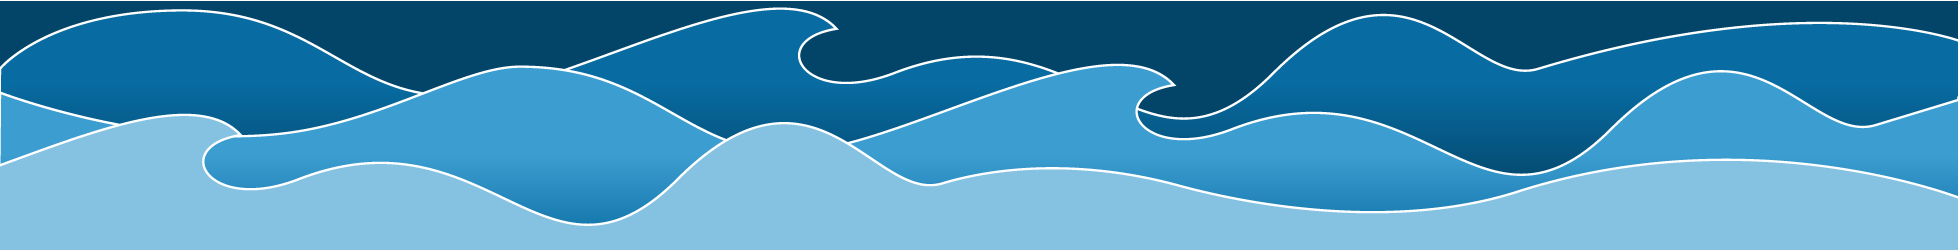
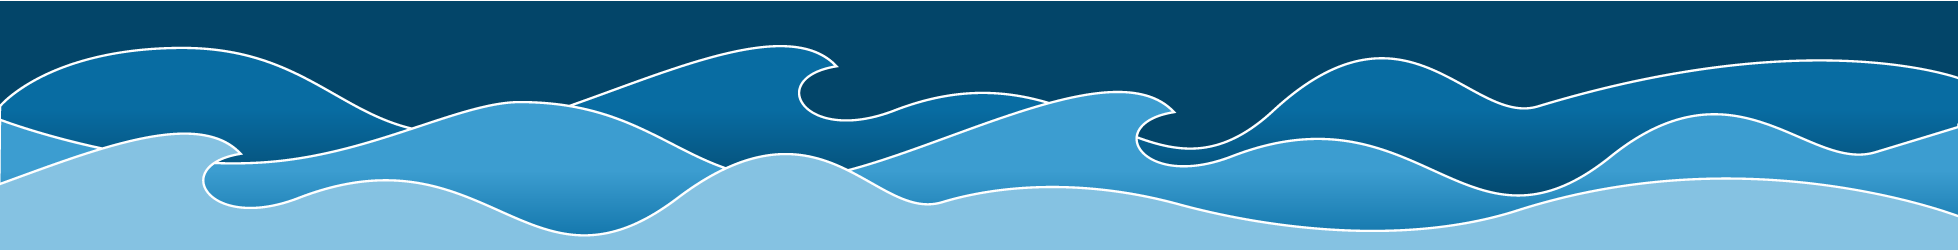
updated theme styles and image

diff --git a/src/unep/theme/index.html b/src/unep/theme/index.html
@@ -29,13 +29,13 @@
   <header class="header">
     <div class="w-container top-container">
       <div class="w-row cep-header">
-        <div class="w-col w-col-6 brand-wrapper">
+        <div class="w-col w-col-5 brand-wrapper">
           <a class="w-nav-brand w-clearfix brand" href="#">
             <img class="logo" src="images/cep%20unep%20logo.jpg" height="100" alt="53278764c90f21541e000008_cep%20unep%20logo.jpg">
             <h1 class="site-header">The Caribbean<br> Environment<br> Programme</h1>
           </a>
         </div>
-        <div class="w-col w-col-6 w-hidden-small w-hidden-tiny super-menu-wrapper">
+        <div class="w-col w-col-7 w-hidden-small w-hidden-tiny super-menu-wrapper">
           <nav class="w-nav-menu w-hidden-small w-hidden-tiny super-menu" role="navigation"><a class="w-nav-link w-hidden-small w-hidden-tiny super-menu-nav" href="#">Contact</a><a class="w-nav-link w-hidden-small w-hidden-tiny super-menu-nav" href="#">Vacancies &amp; Internships</a><a class="w-nav-link super-menu-nav" href="#">Staff Directory</a>
             <a
             class="w-nav-link super-menu-nav" href="#">UNEP</a>
@@ -187,13 +187,13 @@
       <h2>Resources</h2>
       <div class="w-row">
         <div class="w-col w-col-6">
-          <div class="w-clearfix resources-badge">
+          <div class="w-clearfix resources-badge clearing-houses">
             <h3 class="resources-heading">Clearing Houses and Databases</h3>
             <img class="resources-image" src="images/databases.jpg" width="200" alt="532a36eb4a6c2b56370000bb_databases.jpg">
           </div>
         </div>
         <div class="w-col w-col-6">
-          <div class="w-clearfix resources-badge">
+          <div class="w-clearfix resources-badge kids-corner">
             <img class="resources-image" src="images/kids%20corner.jpg" width="200" alt="532a358ba28d4058370000ce_kids%20corner.jpg">
             <h3 class="resources-heading">Kid’s Corner</h3>
           </div>

diff --git a/src/unep/theme/css/new-cep3.webflow.css b/src/unep/theme/css/new-cep3.webflow.css
@@ -127,15 +127,14 @@ p {
   right: 0px;
   width: auto;
   height: auto;
-  margin-top: 5px;
+  margin-top: 3px;
   margin-right: 20px;
   margin-bottom: 0px;
-  padding-top: 2px;
   padding-bottom: 3px;
   float: none;
   clear: none;
   border-radius: 5px;
-  background-color: rgba(0, 0, 0, 0.58);
+  /*background-color: rgba(0, 0, 0, 0.58);*/
   color: white;
   font-size: 14px;
   font-weight: 300;
@@ -760,6 +759,9 @@ p {
 }
 .brand-wrapper {
   background-color: white;
+  -webkit-border-bottom-right-radius: 10px;
+  -moz-border-radius-bottomright: 10px;
+  border-bottom-right-radius: 10px;
 }
 .header {
   border-bottom: 1px solid #7e859c;

diff --git a/src/unep/theme/css/custom.css b/src/unep/theme/css/custom.css
@@ -173,7 +173,11 @@ color: #888;
 }
 
 .cep-header {
+    background-image: url('../images/waves.png');
     background-size:cover;
+    -webkit-border-bottom-right-radius: 10px;
+    -moz-border-radius-bottomright: 10px;
+    border-bottom-right-radius: 10px;
 }
 
 .main-section .row-3 {

diff --git a/src/unep/theme/css/webflow.css b/src/unep/theme/css/webflow.css
@@ -1007,7 +1007,7 @@ textarea.w-select {
   vertical-align: top;
   text-decoration: none;
   color: #222;
-  padding: 20px;
+  padding: 0px 20px;
   text-align: left;
   margin-left: auto;
   margin-right: auto;
